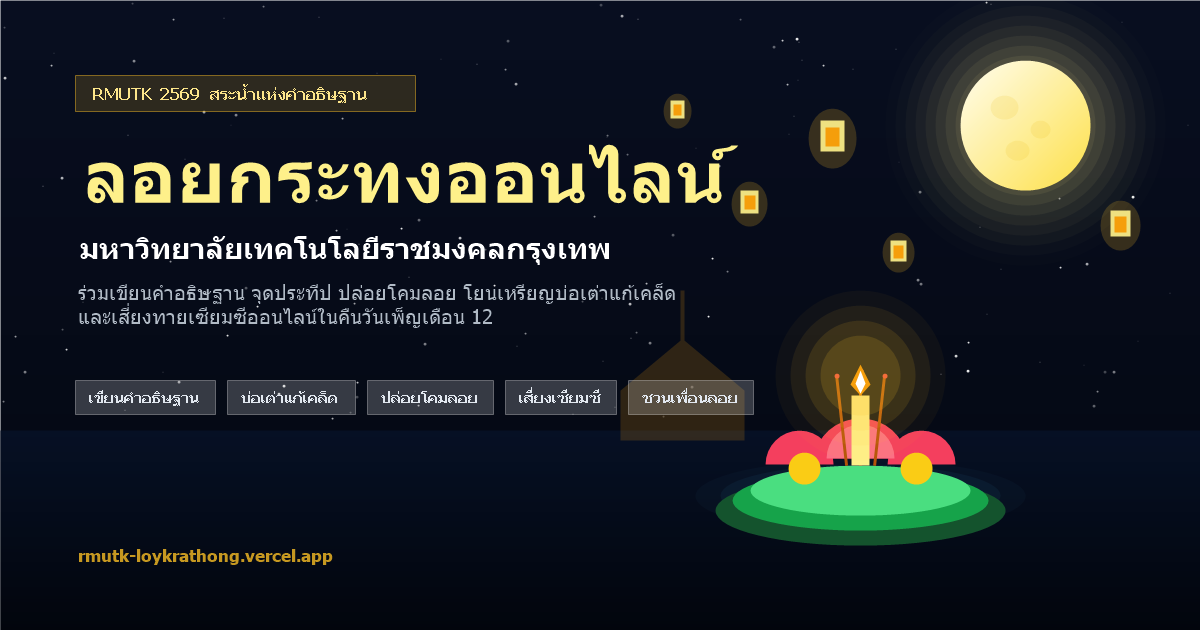
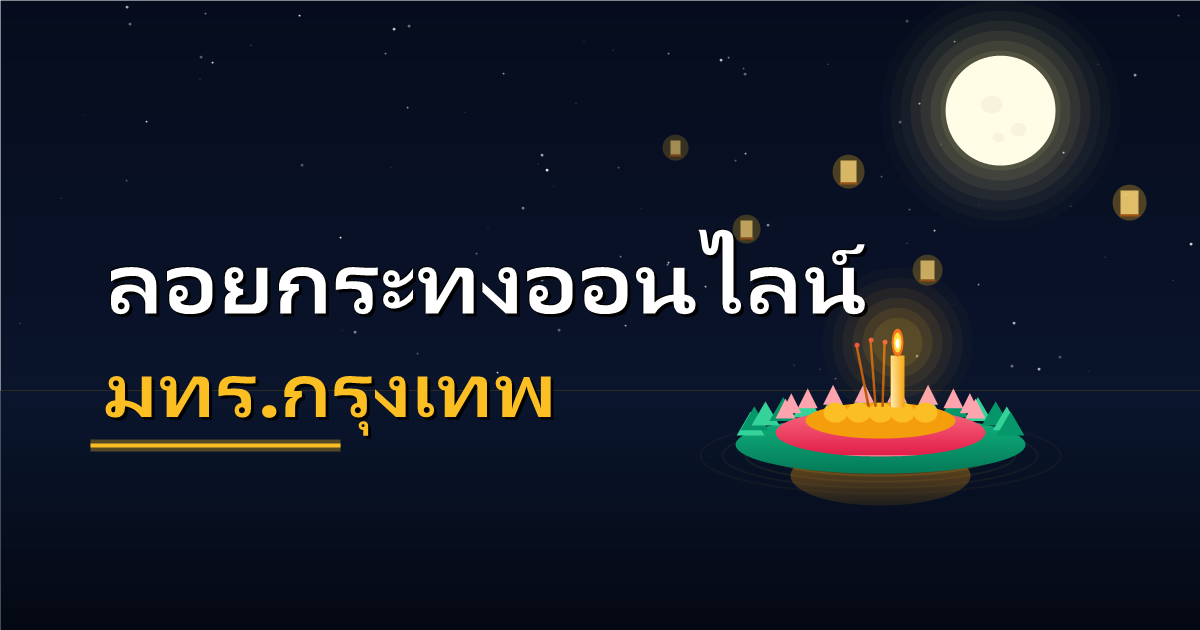
feat: design clean minimal gen-z social share preview card with legible thai typography

diff --git a/app/layout.tsx b/app/layout.tsx
@@ -31,15 +31,15 @@ export const metadata: Metadata = {
     apple: '/icon.png',
   },
   openGraph: {
-    title: 'ลอยกระทงออนไลน์ มทร.กรุงเทพ | สระน้ำแห่งคำอธิษฐาน',
-    description: 'ร่วมลอยกระทงออนไลน์ ณ สระน้ำ มทร.กรุงเทพ เขียนคำอธิษฐาน จุดประทีป ปล่อยโคมลอย โยนเหรียญบ่อเต่าแก้เคล็ด และเสี่ยงทายเซียมซี',
+    title: 'ลอยกระทงออนไลน์ มทร.กรุงเทพ',
+    description: 'ร่วมลอยกระทงออนไลน์ ณ สระน้ำ มทร.กรุงเทพ เขียนคำอธิษฐาน จุดประทีป ปล่อยโคมลอย และลอยกับเพื่อนแบบเรียลไทม์',
     url: 'https://rmutk-loykrathong.vercel.app',
     siteName: 'ลอยกระทงออนไลน์ มทร.กรุงเทพ',
     type: 'website',
     locale: 'th_TH',
     images: [
       {
-        url: 'https://rmutk-loykrathong.vercel.app/og-image.png',
+        url: 'https://rmutk-loykrathong.vercel.app/og-image.png?v=3',
         width: 1200,
         height: 630,
         alt: 'ลอยกระทงออนไลน์ มทร.กรุงเทพ',
@@ -49,9 +49,9 @@ export const metadata: Metadata = {
   },
   twitter: {
     card: 'summary_large_image',
-    title: 'ลอยกระทงออนไลน์ มทร.กรุงเทพ | สระน้ำแห่งคำอธิษฐาน',
-    description: 'ร่วมลอยกระทงออนไลน์ ณ สระน้ำ มทร.กรุงเทพ เขียนคำอธิษฐาน จุดประทีป ปล่อยโคมลอย โยนเหรียญบ่อเต่าแก้เคล็ด',
-    images: ['https://rmutk-loykrathong.vercel.app/og-image.png'],
+    title: 'ลอยกระทงออนไลน์ มทร.กรุงเทพ',
+    description: 'ร่วมลอยกระทงออนไลน์ ณ สระน้ำ มทร.กรุงเทพ เขียนคำอธิษฐาน จุดประทีป ปล่อยโคมลอย และลอยกับเพื่อนแบบเรียลไทม์',
+    images: ['https://rmutk-loykrathong.vercel.app/og-image.png?v=3'],
   },
 };
 
